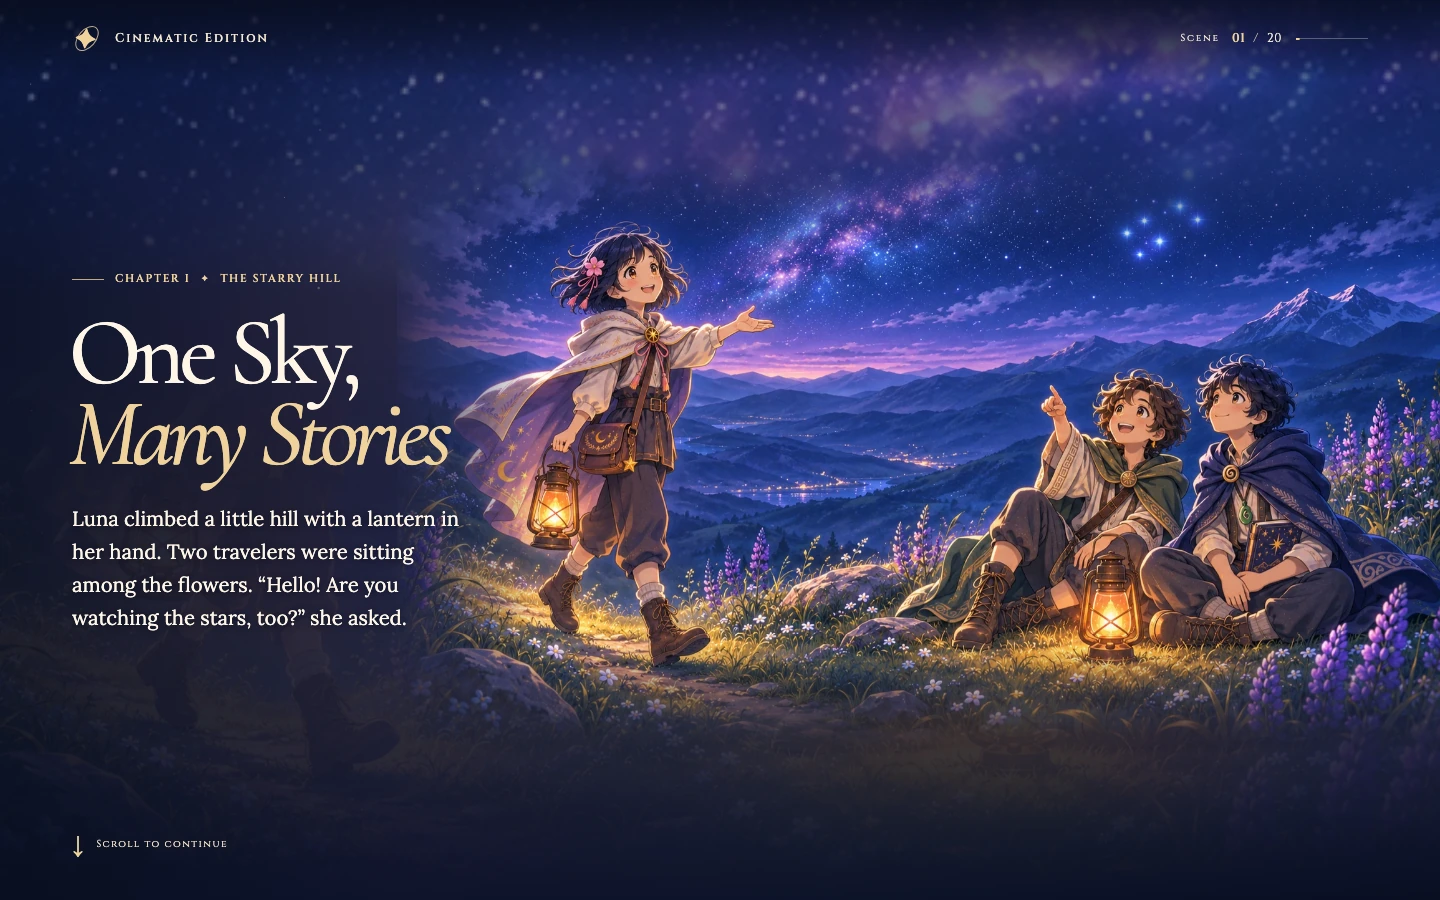
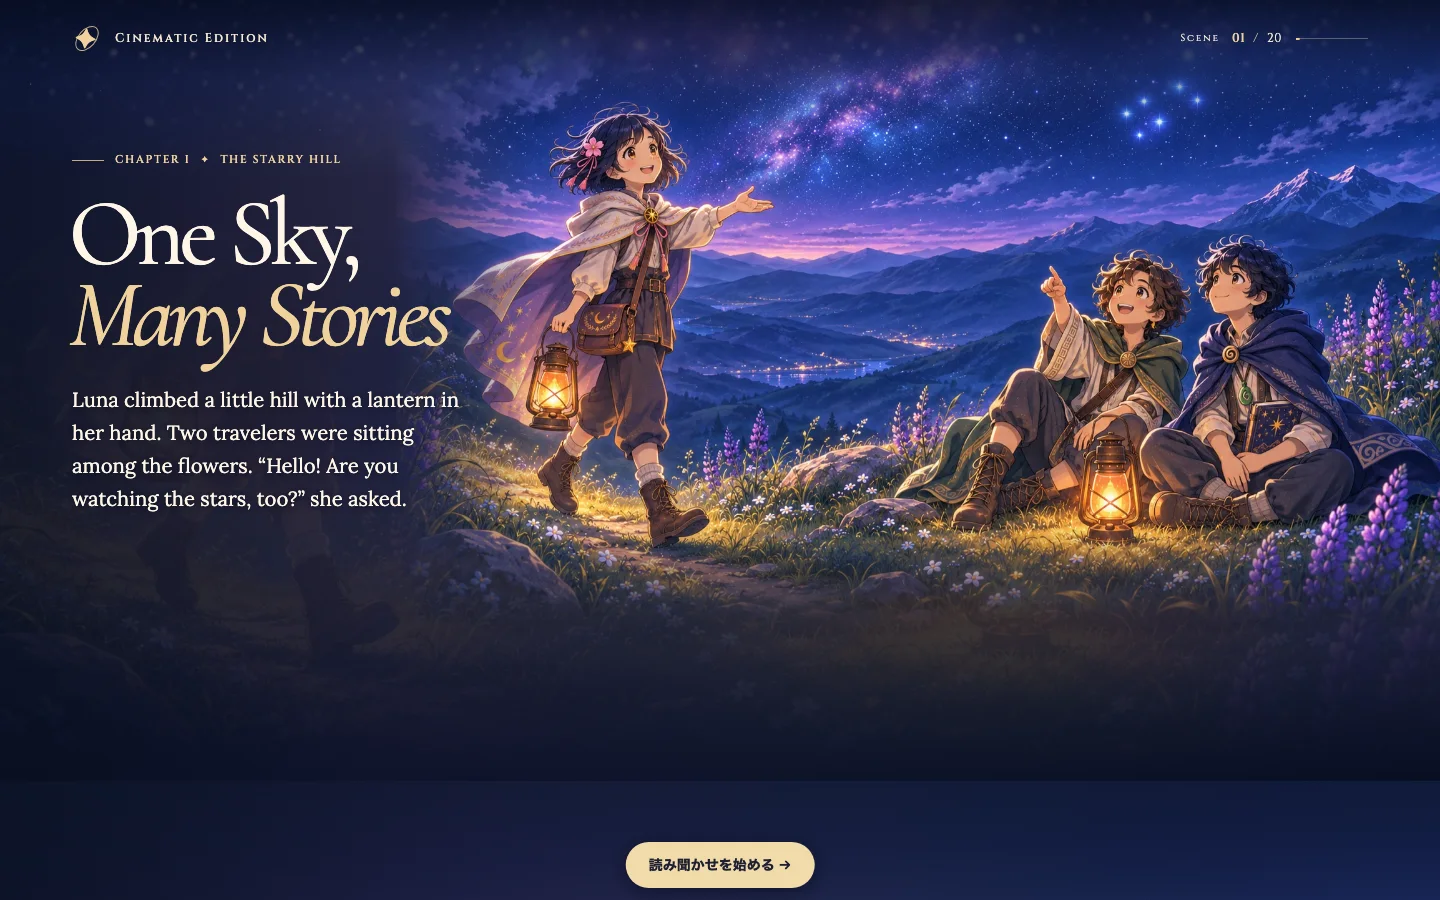
docs: publish the portrait reader guide and verified mobile results

diff --git a/README.md b/README.md
@@ -1,8 +1,14 @@
 # One Sky, Many Stories — Cinematic Web Edition
 
-全20場面を縦にスクロールして読む英語絵本。Luna、Leo、Noahが、同じ星団をめぐる日本、ギリシャ、ニュージーランドの物語を語る。v0.1 Foundation の基準画面は iPhone 16 縦持ちの393 × 852 CSS px。
+全20場面の英語絵本。Luna、Leo、Noahが、一つの星団をめぐる日本、ギリシャ、ニュージーランドの物語を語る。縦画面には描き下ろした挿絵、横画面にはPDFの横長原画を使う。iPhone 16の縦持ち（393 × 852 CSS px）を基準に設計した。
 
 [iPhoneで絵本を読む](https://belltreetech.github.io/one-sky-many-stories/) · [スマートフォンの冒頭画面](docs/screenshots/iphone-01.webp) · [デスクトップの冒頭画面](docs/screenshots/desktop-opening.webp) · [公式スキルの導入記録](docs/tooling.md)
+
+## 読み聞かせる
+
+リンクを開くと第1場面の本文が読める。指でスクロールするか、画面下の「読み聞かせを始める」を押し、「次へ」「前へ」で進む。第7場面ではルナと星を数え、第8場面ではレオの望遠鏡をのぞく。第11場面では七姉妹を眺めたあと、次のひと送りでルナの問いに対するレオの答えが現れる。
+
+対応ブラウザーでは「英語で聴く」が、その位置の英文を端末の音声合成で読む。音声の有無や声質は端末・言語設定による。自分の声で読むときはそのまま「次へ」で進める。最終場面の「最初へ」で冒頭に戻る。[全20場面の演出表](specs/portrait-edition/spec.md)
 
 ## 起動
 
@@ -30,7 +36,8 @@ npm run preview -- --host 127.0.0.1 --port 4181 --strictPort
 
 - [story.json](src/data/story.json) に20場面の本文、順序、章、画像の相対パス、寸法、英語の代替説明がある。章名と代替説明はWeb版の編集情報。
 - [原寸のWebP](public/art/) は3ページ目が1671 × 940 px、残る19ページが1672 × 940 px。合計7,621,822バイト。20枚のJPEG原データも今回の作業環境の `.private/pdf-originals/` に保存した。Popplerが抽出したJPEGとも20枚すべてバイト一致した。
-- [背景用素材](public/atmosphere/) は各場面の色を保つ小さなぼかし画像と、1ページ目の原画から切り出した星空。追加のAI生成画像は使用していない。
+- [背景用素材](public/atmosphere/) は各場面の色を保つ小さなぼかし画像と、1ページ目の原画から切り出した星空。
+- [縦版の挿絵](public/portrait/) は原作の人物・小道具・画風を参照し、内蔵ImageGenで場面ごとに再生成したWebP。望遠鏡の中に見える星団は独立した一枚。ギリシャの丘の無人の背景も独立させ、七姉妹の前後の絵をなめらかにつなぐ。
 
 再抽出にはPython 3.10以降とPopplerのコマンドが必要。以下はプロジェクト直下からの実行例。
 
@@ -44,7 +51,7 @@ python3 -m venv .private/extract-env
 
 ## 表示とアニメーションの構成
 
-各場面は独立したHTMLセクション。スマートフォンでは原画を横幅に合わせ、同じ絵の背景を本文の下まで広げる。スクロールを止めるとその位置で読める。本文は選択・コピーできる。幅の広い画面では、挿絵に重なる左側に英文が流れる。
+各場面は独立したHTMLセクション。縦画面では縦原画を表示し、画面端に大気と光を重ねる。スクロールを止めるとその位置で読める。本文は選択・コピーできる。幅の広い画面では、挿絵に重なる左側に英文が流れる。
 
 | 担当 | 実装 | 動作 |
 |---|---|---|
@@ -55,7 +62,7 @@ python3 -m venv .private/extract-env
 | Particle Engine | [ParticleEngine.tsx](src/engine/ParticleEngine.tsx) | 固定Canvas 1枚で星を明滅させる。描画解像度と更新頻度に上限を設け、動作軽減時・非表示タブでは停止。 |
 | Scene Transition | [sceneTransition.ts](src/engine/sceneTransition.ts) | 場面の出入りで上下の光量を変える。上方向・下方向とも同じスクロール位置に同期。 |
 
-固有の演出は `sceneEffects` に場面番号を追加する。将来の縦長素材は [Scene型](src/data/edition.ts) の `portrait` に画像パス・幅・高さを指定する。セーフエリアには `viewport-fit=cover` と `env(safe-area-inset-*)`、表示高には `svh`・`dvh` を使う。本文は拡大に合わせて改行し、必要な高さまで場面が伸びる。
+縦版の[演出設定](src/data/portrait.ts)は場面ごとの注視点、カメラの進み方、発見の場面にある英文の区切りを定める。[縦版タイムライン](src/engine/portraitTimeline.ts)は現在のスクロール位置から望遠鏡の視野や神話への移行を描く。原文は [story.json](src/data/story.json) に一度だけ保持する。セーフエリアには `viewport-fit=cover` と `env(safe-area-inset-*)`、表示高には `svh`・`dvh` を使う。本文は拡大に合わせて改行し、必要な高さまで場面が伸びる。
 
 タイトルのCormorant Garamond、章名のCinzel、本文のLoraをローカルWOFF2で配信する。インストールした各書体のSIL Open Font Licenseを確認し、ビルド時に各ライセンスを `dist/licenses/` へコピーする。GSAPおよびReact関連の通知も同梱する。
 
@@ -70,7 +77,17 @@ npm test
 
 テストにはPython 3も使う。Playwrightが一時静的サーバーを127.0.0.1:4182で起動し、実際の `dist/` を `/one-sky-many-stories/` にマウントする。スクリーンショットは `artifacts/screenshots/`、失敗時のトレースは `artifacts/test-results/` に出力する。
 
-2026年11月26日のmacOSで、iPhone 16相当のWebKit 27.2（393 × 852、DPR 3）とChromium 159（1440 × 900）を実際に起動した。各5件、合計10件が合格した。
+### 縦版の検証
+
+2026年11月26日、配布用ビルド（79ファイル、15,882,347バイト）をPagesのサブパスで開き、iPhone・iPad相当のWebKitとデスクトップChromiumで計42件の検査が通過した。
+
+[縦版の検証記録と再現手順](docs/portrait-qa.md)には、iPhone・iPad縦画面のWebKit、横画面のChromium、GitHub Pagesの公開URLの検査方法を記載した。第7・8・11場面は両方の読書位置を含め、全23箇所で英文を照合する。文字拡大、順送り・逆送り、端末回転、動きの軽減、画像の読み込み失敗時の動作も確認対象になる。
+
+XcodeのiPhone 16シミュレーター（iOS 26.5）のMobile Safariでも、読み聞かせを始めてから全23箇所を順に送り、最終場面から戻って冒頭を読み返す操作を実施した。実機での発熱、搭載音声の音質や発音は未計測。
+
+### Foundation版の検証記録
+
+以下の数値は縦版に着手する前のFoundation版の記録。2026年11月26日のmacOSで、iPhone 16相当のWebKit 27.2（393 × 852、DPR 3）とChromium 159（1440 × 900）を実際に起動した。各5件、合計10件が合格した。
 
 | 確認対象 | 最終結果 |
 |---|---|
@@ -84,7 +101,7 @@ npm test
 
 ## GitHub ActionsとPages
 
-開発用ブランチは `feature/foundation`。[CI](.github/workflows/ci.yml) がpush・PR時に依存関係の復元、型検査、ビルド、WebKit／Chromium試験を実行する。[Pagesワークフロー](.github/workflows/pages.yml) はmainから手動で起動し、同じ検査を通過した配布物をデプロイする。2本のワークフローはactionlintでも検査した。
+縦版の開発用ブランチは `feature/portrait-cinematic-edition`。Foundation版は `feature/foundation`。[CI](.github/workflows/ci.yml) がpush・PR時に依存関係の復元、型検査、ビルド、WebKit／Chromium試験を実行する。[Pagesワークフロー](.github/workflows/pages.yml) はmainから手動で起動し、同じ検査を通過した配布物をデプロイする。2本のワークフローはactionlintでも検査した。
 
 公開先は [BelltreeTech の GitHub Pages](https://belltreetech.github.io/one-sky-many-stories/)。このリポジトリではPagesのビルド元を **GitHub Actions** に設定している。更新版を公開するにはmainから **Publish GitHub Pages** を実行する。通常のプロジェクトサイトではリポジトリ名からbase pathを決める。ドメイン直下用のローカルビルドには `VITE_BASE_PATH=/ npm run build` が使える。[Viteの静的デプロイ](https://vite.dev/guide/static-deploy.html#github-pages)
 

diff --git a/docs/portrait-qa.md b/docs/portrait-qa.md
@@ -1,0 +1,50 @@
+# 縦版の読書体験の検証
+
+対象は、全20場面と第7・8・11場面の二つ目の読み位置を含む、23箇所の英文である。PDFから独立に抽出した照合データを使い、原文、句読点、固有名詞、順序を実際のHTMLと照合する。[PDFの照合データ](../tests/fixtures/pdf-oracle.json)
+
+## 2026年11月26日の本番ビルド検証結果
+
+ローカルで本番用ファイルをPagesのサブパスにマウントし、**3環境・42件が全件成功**した。実行時間は45.6秒。端末エミュレーションにはWebKit 27.2、デスクトップにはChromium 159.0.8154.6を使用した。配布物は79ファイル、15,882,347バイト。検査したアプリのJavaScriptは `index-hoygt4MC.js`、CSSは `index-Xkpap6WL.css` である。
+
+| 検査 | 観測結果 |
+|---|---|
+| 20場面と挿絵 | iPhoneとiPadで全20枚の縦絵、デスクトップで全20枚の横絵を取得・デコードした。原本と全英文が一致し、主絵・補助画像の配信バイトが手元のWebPと一致した。 |
+| 読み聞かせ | 音声APIが使えない状態で、開始から23の読書位置を日本語の操作で通読できた。滑らかな「次へ」、素早い「次へ→次へ→前へ」、動きを減らした状態の即時送り、最後から冒頭への戻りを確認した。 |
+| 途中の絵と読み返し | 第8場面のカメラ倍率は開始0.970、中間1.157、終点1.180。逆に戻すと同じ値になった。第9→10場面では中間に人物のいない丘、第11場面ではカメラの停止と装飾の動きの収束を確認した。 |
+| 修正の再検証 | 回転後も読書場面を保持し、iPhoneで200%に拡大してもタイトルによる横はみ出しが発生しない。縦絵と横絵に一時的なHTTP 503を返した後、オンライン復帰で同じ位置に縦絵が戻り、英文も保持された。 |
+| iPhoneのコントラスト | 23の読書位置・652,901画素を測定し、最小は第14場面の **11.02:1**。 |
+| iPadのコントラスト | 23の読書位置・908,604画素を測定し、最小は第17場面の **12.78:1**。 |
+
+両方の縦画面で20場面を目視した。第7場面の6点とLunaの手、第11場面の七姉妹、第15・16場面の母と6人の娘、第17場面の最長英文、第20場面の三人の背中と空を確認した。読み位置での文字欠け、ドックによる本文の隠れ、予期しないHTTP失敗・ブラウザ例外・コンソールエラーはいずれも検出されなかった。[iPhoneの冒頭画面](screenshots/iphone-01.webp)・[横長画面の冒頭](screenshots/desktop-opening.webp)
+
+## 再現方法
+
+```sh
+npm ci
+npx playwright install chromium webkit
+npm run typecheck
+npm run build
+npm test
+```
+
+Playwrightは配布用の `dist/` をGitHub Pagesと同じ `/one-sky-many-stories/` にマウントする。iPhone 16相当のWebKitで393 × 852、iPad Pro 11相当のWebKitで834 × 1194、デスクトップChromiumで1440 × 900の表示を調べる。横向きではPDFから抽出した横長挿絵を、縦向きでは描き直した20枚を選ぶ。[ブラウザ設定](../playwright.config.ts)
+
+公開後は、同じコミットのファイルが手元にある状態で次のコマンドを実行できる。ブラウザはログイン情報も保存済みキャッシュも持たない新しいコンテキストで起動する。
+
+```sh
+PLAYWRIGHT_PUBLIC_URL=https://belltreetech.github.io/one-sky-many-stories/ npm test
+```
+
+## 検査内容
+
+- **原文と配信画像。** 各場面のDOMに原文が一度ずつ現れることを検査する。第7・8・11場面では両方の読み位置を検査する。画像はブラウザでデコードし、URL、種類、寸法、配信バイトのSHA-256を確認する。望遠鏡の星野と神話の丘の補助画像も照合する。
+- **操作と読み返し。** 日本語の開始から最終場面の「最初へ」まで、本文や操作が重ならない位置で通読する。逆送り、高速スクロール、画面の高さ変更、縦横回転、200%文字拡大、動きを減らす設定の切り替え、音声を使えない状態を調べる。
+- **絵の動き。** 七姉妹の場面で読者が止めたカメラの変位と、髪・袖・雲の残りの動きを別々に測る。望遠鏡の星野は逆送りで丘に戻ることを確認する。神話の入口は途中で止め、二組の姉妹が同時に見えず、人物のいない稜線がつなぐことを確認する。
+- **読みやすさ。** 折り返した本文の各行について、文字を一時的に透明にして、画像・グラデーション・半透明レイヤーを合成した後の画素を取得する。実際の文字色と背景色からコントラスト比を算出し、行の内部の最小値を4.5:1以上とする。文字のアンチエイリアスは計算に含めない。[測定コード](../tests/readability.ts)
+- **失敗時の表示。** 壊れた縦絵を返すと元の横長挿絵に戻り、壊れた補助画像を返しても本文を読めることを試す。Canvasを使えない状態でも最終場面に到達できる。日本語の音声操作はWeb Speech APIへの命令、読み上げる英文、一時停止・再開・取り消し、エラー後の表示を模擬音声で確認する。
+
+通常の実行では `artifacts/screenshots/` に両端末の場面写真・コントラスト測定結果を保存する。公開URLの実行結果は `artifacts/public-portrait-qa/` に保存する。[全編の通読と照合](../tests/reader.spec.ts)・[縦絵の演出と異常時の検査](../tests/portrait.spec.ts)・[読み聞かせと音声の検査](../tests/read-together.spec.ts)
+
+## 実機で確認する事項
+
+WebKitの端末エミュレーションで画面寸法、読書操作、HTML・CSS・Canvasを検査できる。物理端末の切り欠きや指で払ったときの感触、搭載音声の音質・発音、連続利用時の発熱と消費電力は、実機での確認事項となる。
